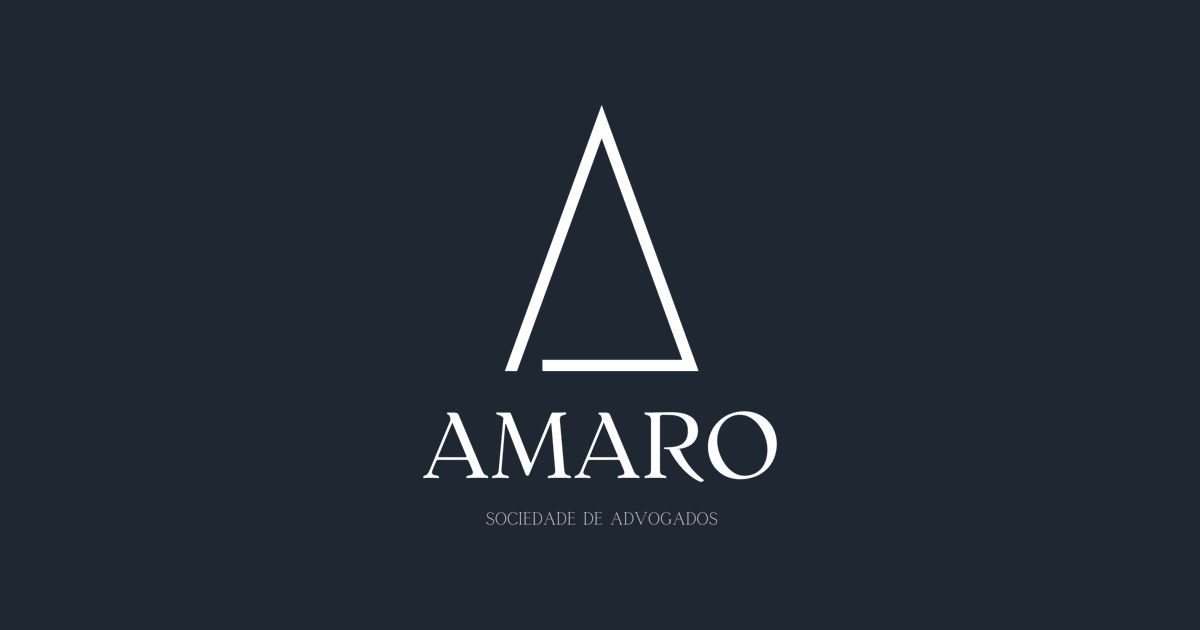
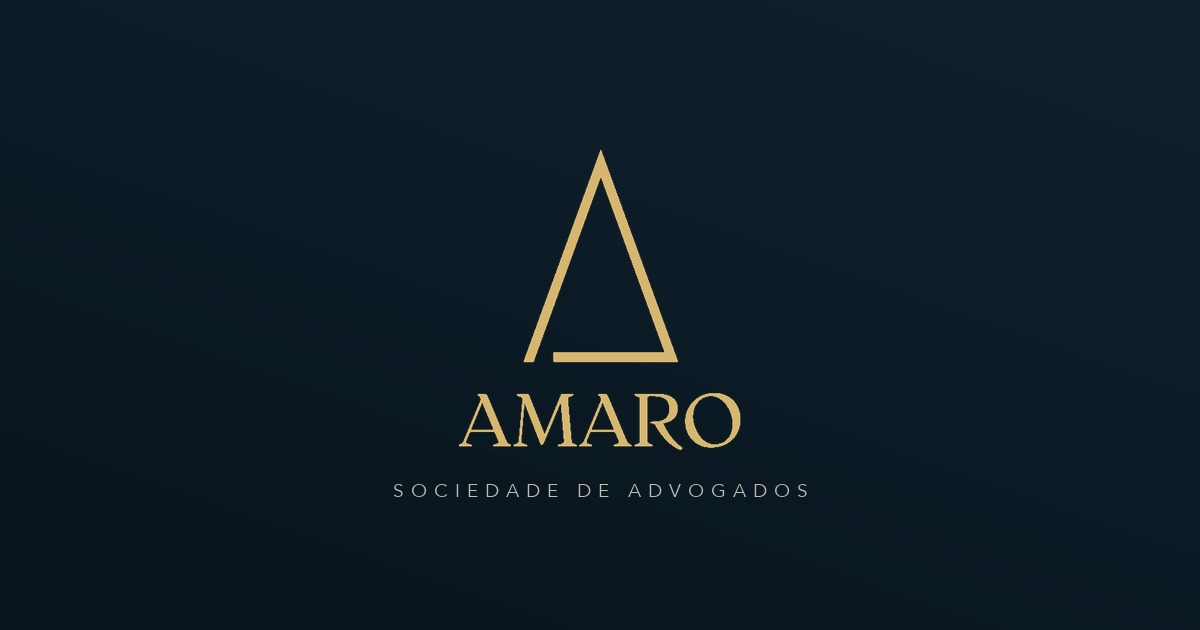
Cores do site no padrão azul petróleo e dourado champagne
Troca das variáveis de cor, do botão principal, do véu da foto da fachada e do rodapé.
Imagem de compartilhamento e favicon no mesmo padrão. Sem mudança de estrutura nem de texto.

Changed region(s): [[0.3392, 0.181, 0.6783, 0.8444]]

diff --git a/src/assets/css/estilo.css b/src/assets/css/estilo.css
@@ -6,15 +6,15 @@
 @font-face { font-family: "Inter"; src: url("/assets/fonts/inter-latin-600-normal.woff2") format("woff2"); font-weight: 600; font-display: swap; }
 
 :root {
-  --grafite: #1F2732;
-  --grafite-2: #161D27;
-  --papel: #f6f6f4;
-  --papel-2: #ebebee;
-  --tinta: #1c232d;
-  --tinta-suave: #5a616b;
-  --linha: #d9dbe0;
-  --bronze: #9a8262;
-  --bronze-claro: #c8b494;
+  --grafite: #102230;
+  --grafite-2: #08131B;
+  --papel: #F5F1E8;
+  --papel-2: #ECE6D7;
+  --tinta: #10222F;
+  --tinta-suave: #4F5A63;
+  --linha: #DDD5C3;
+  --bronze: #7A5F2C;
+  --bronze-claro: #D6B670;
   --serifa: "Cormorant", Georgia, serif;
   --sans: "Inter", system-ui, -apple-system, "Segoe UI", sans-serif;
   --largura: 1120px;
@@ -60,8 +60,8 @@ p { margin: 0 0 1em; }
 .capa__simbolo { position: absolute; right: max(-60px, calc((100vw - var(--largura)) / 2 - 40px)); bottom: -40px; width: clamp(240px, 34vw, 440px); opacity: .07; pointer-events: none; }
 
 .botao { display: inline-block; text-decoration: none; font: 500 .9rem/1 var(--sans); letter-spacing: .04em; padding: 15px 26px; border-radius: 2px; border: 1px solid transparent; cursor: pointer; transition: background .2s, color .2s; }
-.botao--claro { background: var(--papel); color: var(--grafite); }
-.botao--claro:hover { background: #fff; }
+.botao--claro { background: var(--bronze-claro); color: var(--grafite); }
+.botao--claro:hover { background: #E4CB8E; }
 .botao--contorno { border-color: rgba(255,255,255,.4); color: #fff; }
 .botao--contorno:hover { background: rgba(255,255,255,.08); }
 
@@ -124,7 +124,7 @@ p { margin: 0 0 1em; }
 .oculto { position: absolute; left: -9999px; }
 
 /* Rodapé */
-.rodape { background: #101820; color: #a3aab4; font-size: .88rem; padding: 56px var(--gutter) 28px; }
+.rodape { background: var(--grafite-2); color: #a3aab4; font-size: .88rem; padding: 56px var(--gutter) 28px; }
 .rodape__grade { max-width: var(--largura); margin: 0 auto; display: grid; grid-template-columns: auto 1.4fr 1fr; gap: 48px; align-items: start; }
 .rodape__logo { width: 72px; opacity: .9; }
 .rodape__nome { color: #fff; font-family: var(--serifa); font-size: 1.25rem; }
@@ -153,7 +153,7 @@ p { margin: 0 0 1em; }
 }
 
 /* Capa com foto */
-.capa { background-color: var(--grafite); background-image: linear-gradient(90deg, rgba(16,24,32,.94) 0%, rgba(22,29,39,.82) 45%, rgba(31,39,50,.5) 100%), var(--foto, none); background-size: cover; background-position: center 60%; }
+.capa { background-color: var(--grafite); background-image: linear-gradient(90deg, rgba(8,19,27,.94) 0%, rgba(11,27,38,.84) 45%, rgba(16,34,48,.58) 100%), var(--foto, none); background-size: cover; background-position: center 60%; }
 .sobre__foto { margin-top: 28px; aspect-ratio: 4/3; object-fit: cover; width: 100%; filter: saturate(.75); }
 
 /* Topo com WhatsApp */
@@ -182,5 +182,5 @@ p { margin: 0 0 1em; }
 @media (max-width: 860px) {
   .topo__whats { display: none; }
   .unidades-lista li { grid-template-columns: 1fr; gap: 20px; }
-  .capa { background-image: linear-gradient(180deg, rgba(16,24,32,.9) 0%, rgba(31,39,50,.78) 100%), var(--foto, none); }
+  .capa { background-image: linear-gradient(180deg, rgba(8,19,27,.92) 0%, rgba(16,34,48,.80) 100%), var(--foto, none); }
 }
